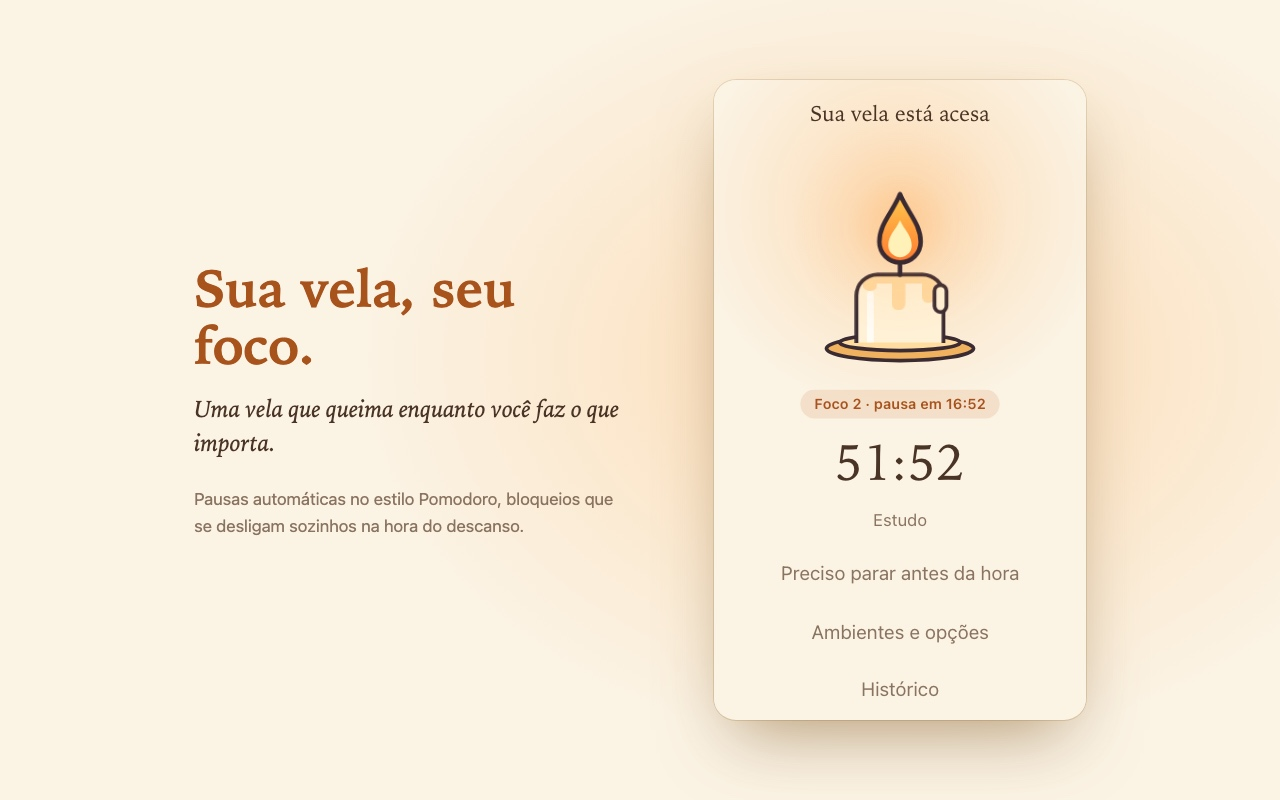
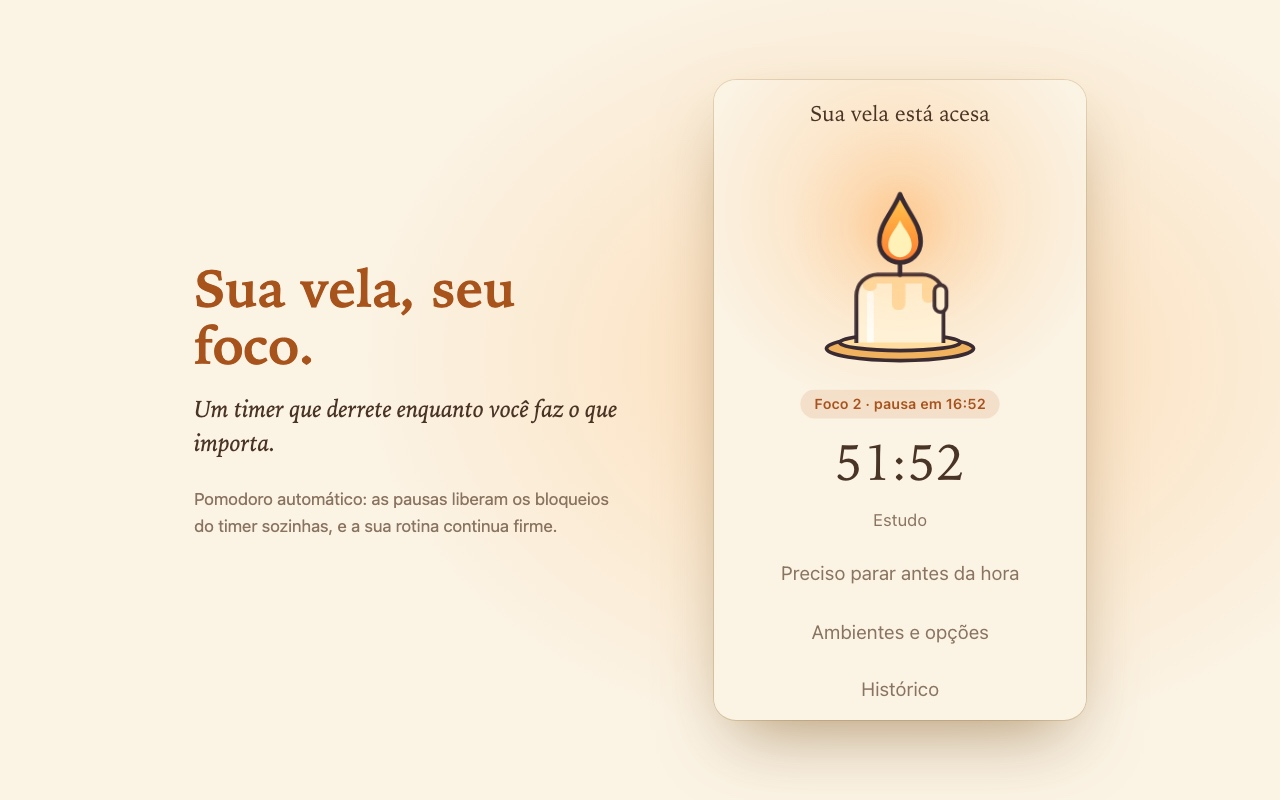
Loja: material atualizado para a Rotina (listagem, privacidade, capturas)

Changed region(s): [[0.1562, 0.5938, 0.4688, 0.6875], [0.1875, 0.5, 0.5, 0.5312]]

diff --git a/store/privacy-policy.html b/store/privacy-policy.html
@@ -31,9 +31,9 @@
 <h2>O que o Pavio guarda (somente no seu dispositivo)</h2>
 <p>Esses dados ficam em <code>chrome.storage.local</code>, que <strong>não é sincronizado</strong> com a sua conta Google:</p>
 <ul>
-<li><strong>Ambientes e regras</strong> que você cria (sites e o que fazer com cada um).</li>
-<li><strong>Horários</strong> (faixas por dia e hora) e configurações (tema, estilo da vela).</li>
-<li><strong>Sessão em andamento:</strong> quando começou, quando termina, o ambiente e o estado do Pomodoro.</li>
+<li><strong>Sua rotina:</strong> os sites e, para cada um, os dias, os horários e o que fazer (bloquear ou esconder partes).</li>
+<li><strong>Ambientes</strong> do timer (regras por site) e configurações (tema, estilo da vela, se a rotina está ligada).</li>
+<li><strong>Timer em andamento:</strong> quando começou, quando termina, o ambiente e o estado do Pomodoro.</li>
 <li><strong>Histórico de sessões:</strong> data, duração, ambiente, se foi concluída e quantas vezes você tentou abrir um site bloqueado.</li>
 <li><strong>Modo intenção:</strong> o texto que você digita ("o que você vai fazer aqui") e o tempo escolhido, apenas durante a sessão.</li>
 </ul>
@@ -46,17 +46,17 @@
 </ul>
 <h2>Como o Pavio atua nas páginas</h2>
 <ul>
-<li><strong>Bloqueio de sites:</strong> quando você inicia uma sessão, o Pavio usa a API <code>declarativeNetRequest</code> do Chrome para redirecionar os sites que você escolheu bloquear para uma página do próprio Pavio. Isso não exige ler o conteúdo das páginas.</li>
-<li><strong>Abas já abertas:</strong> ao iniciar uma sessão, o Pavio consulta o endereço das abas abertas nos sites que você bloqueou, só para levá-las à página da vela.</li>
-<li><strong>YouTube, Instagram, LinkedIn e X:</strong> durante uma sessão cujo ambiente trate o serviço como "restrito", um script local esconde as partes que você marcou (por exemplo, feed, Shorts, Reels, comentários) e redireciona páginas específicas com base no <strong>endereço (URL)</strong>. No YouTube, se você usa uma lista de vídeos/canais permitidos, o script compara o link do canal do vídeo aberto com a sua lista. No X, o script lê os rótulos das abas ("Para você", "Seguindo") para identificar qual esconder. Tudo acontece no seu navegador; nada é lido para outro fim nem transmitido.</li>
+<li><strong>Bloqueio de sites:</strong> nos dias e horários da sua rotina, ou enquanto uma vela (timer) está acesa, o Pavio usa a API <code>declarativeNetRequest</code> do Chrome para redirecionar os sites que você escolheu bloquear para uma página do próprio Pavio. Isso não exige ler o conteúdo das páginas.</li>
+<li><strong>Abas já abertas:</strong> quando um bloqueio começa a valer, o Pavio consulta o endereço das abas abertas nos sites que você bloqueou, só para levá-las à página da vela.</li>
+<li><strong>YouTube, Instagram, LinkedIn e X:</strong> nos horários em que sua rotina (ou o timer) trata o serviço como "restrito", um script local esconde as partes que você marcou (por exemplo, feed, Shorts, Reels, comentários) e redireciona páginas específicas com base no <strong>endereço (URL)</strong>. No YouTube, se você usa uma lista de vídeos/canais permitidos, o script compara o link do canal do vídeo aberto com a sua lista. No X, o script lê os rótulos das abas ("Para você", "Seguindo") para identificar qual esconder. Tudo acontece no seu navegador; nada é lido para outro fim nem transmitido.</li>
 </ul>
 <h2>Permissões e por que são necessárias</h2>
 <table><thead><tr><th>Permissão</th><th>Para que serve</th></tr></thead><tbody>
 <tr><td>Armazenamento (<code>storage</code>)</td><td>Guardar localmente seus ambientes, horários, sessão e histórico.</td></tr>
-<tr><td>Alarmes (<code>alarms</code>)</td><td>Disparar o fim da vela, o início de uma faixa de horário, as trocas do Pomodoro e o aviso do modo intenção no momento certo.</td></tr>
-<tr><td>Notificações (<code>notifications</code>)</td><td>Avisar "a vela acabou", "seu horário começou", "hora da pausa" e "ainda está na tarefa?".</td></tr>
-<tr><td>Bloqueio de rede declarativo (<code>declarativeNetRequest</code>)</td><td>Redirecionar os sites bloqueados para a página da vela durante a sessão.</td></tr>
-<tr><td>Acesso opcional a sites</td><td>Necessário para o redirecionamento. É <strong>opcional</strong>: só é pedido, site a site, quando você adiciona o site a um ambiente.</td></tr>
+<tr><td>Alarmes (<code>alarms</code>)</td><td>Disparar o fim da vela, o início e o fim das faixas da rotina, as trocas do Pomodoro e o aviso do modo intenção no momento certo.</td></tr>
+<tr><td>Notificações (<code>notifications</code>)</td><td>Avisar "a vela acabou", "hora da pausa" e "ainda está na tarefa?".</td></tr>
+<tr><td>Bloqueio de rede declarativo (<code>declarativeNetRequest</code>)</td><td>Redirecionar os sites bloqueados para a página da vela nos horários da sua rotina ou durante o timer.</td></tr>
+<tr><td>Acesso opcional a sites</td><td>Necessário para o redirecionamento. É <strong>opcional</strong>: só é pedido, site a site, quando você liga a rotina ou adiciona o site a uma faixa ou ambiente.</td></tr>
 <tr><td>Acesso a youtube.com, instagram.com, linkedin.com, x.com e twitter.com</td><td>Para esconder as partes que você escolheu desses serviços durante a sessão.</td></tr>
 </tbody></table>
 <h2>Seus direitos e controles</h2>

diff --git a/manifest.ts b/manifest.ts
@@ -6,7 +6,7 @@ export default defineManifest({
   manifest_version: 3,
   name: 'Pavio',
   version: '0.1.0',
-  description: 'Foco com calma: ambientes, horários, Pomodoro e uma vela que queima enquanto você faz o que importa. Tudo local, sem contas.',
+  description: 'Foco com calma: bloqueie sites por dia e horário, com rotina pronta, timer em forma de vela e Pomodoro. Tudo local, sem contas.',
   minimum_chrome_version: '120',
   permissions: ['storage', 'alarms', 'notifications', 'declarativeNetRequest'],
   // Pedida por site, no clique do usuário (ao salvar um ambiente com sites bloqueados/restritos).

diff --git a/store/privacy-practices.md b/store/privacy-practices.md
@@ -11,22 +11,22 @@ Ajudar o usuário a manter o foco: ele monta ambientes e horários com regras po
 
 ### `storage`
 ```
-Guarda, no próprio navegador, os ambientes e regras do usuário, a sessão em andamento, os horários, as configurações e o histórico local de sessões. Nenhum desses dados sai do dispositivo.
+Guarda, no próprio navegador, a rotina e os ambientes do usuário (regras por site e horário), a sessão em andamento, as configurações e o histórico local de sessões. Nenhum desses dados sai do dispositivo.
 ```
 
 ### `alarms`
 ```
-Precisa disparar eventos no horário certo mesmo com o service worker suspenso: o fim da vela (sessão), o início de uma faixa de horário, a troca de fase do Pomodoro (foco/pausa) e o fim do tempo declarado no modo intenção.
+Precisa disparar eventos no horário certo mesmo com o service worker suspenso: o fim da vela (sessão), o início e o fim das faixas da rotina (para ligar e desligar os bloqueios na hora marcada), a troca de fase do Pomodoro (foco/pausa) e o fim do tempo declarado no modo intenção.
 ```
 
 ### `notifications`
 ```
-Mostra avisos locais ao usuário: "a vela acabou", "seu horário começou", "hora da pausa / de volta ao foco" e "ainda está na tarefa?". Não exibe anúncios nem conteúdo promocional.
+Mostra avisos locais ao usuário: "a vela acabou", "hora da pausa / de volta ao foco" e "ainda está na tarefa?". Não exibe anúncios nem conteúdo promocional.
 ```
 
 ### `declarativeNetRequest`
 ```
-Redireciona a navegação principal (main_frame) dos sites que o usuário escolheu bloquear para uma página do próprio Pavio (a vela). As regras são dinâmicas, existem somente durante uma sessão de foco e são removidas ao fim dela ou na pausa do Pomodoro. A API declarativa é usada justamente para que o Pavio não precise ler o conteúdo das páginas.
+Redireciona a navegação principal (main_frame) dos sites que o usuário escolheu bloquear para uma página do próprio Pavio (a vela). As regras são dinâmicas e valem apenas nos dias e horários que o próprio usuário definiu na sua rotina, ou enquanto uma vela (timer) está acesa; são removidas ao fim da faixa, do timer ou na pausa do Pomodoro. A API declarativa é usada justamente para que o Pavio não precise ler o conteúdo das páginas.
 ```
 
 ### Permissão de host opcional (`optional_host_permissions: <all_urls>`)
@@ -36,7 +36,7 @@ O redirecionamento do declarativeNetRequest exige acesso ao site de destino, e o
 
 ### Scripts de conteúdo — acesso a `youtube.com`, `instagram.com`, `linkedin.com`, `x.com` e `twitter.com`
 ```
-Executam apenas no navegador do usuário e só agem durante uma sessão de foco cujo ambiente trate esse serviço como "restrito". Escondem, por CSS, as partes que o usuário marcou (ex.: feed, Shorts, Reels, recomendados, comentários, aba "Para você") e redirecionam páginas específicas (ex.: /shorts, /reels, /explore) para a vela, decidindo apenas pelo caminho (URL). No YouTube, com uma lista de links permitidos, o script compara o link do canal do vídeo aberto com os canais permitidos; no X, lê apenas os rótulos das abas para esconder "Para você". Eles não leem mensagens, publicações, perfis nem dados pessoais, e não enviam nada para fora. Precisam rodar no início da página (document_start) para o conteúdo escondido não aparecer por um instante.
+Executam apenas no navegador do usuário e só agem nos horários em que a rotina do usuário (ou o timer) trata esse serviço como "restrito". Escondem, por CSS, as partes que o usuário marcou (ex.: feed, Shorts, Reels, recomendados, comentários, aba "Para você") e redirecionam páginas específicas (ex.: /shorts, /reels, /explore) para a vela, decidindo apenas pelo caminho (URL). No YouTube, com uma lista de links permitidos, o script compara o link do canal do vídeo aberto com os canais permitidos; no X, lê apenas os rótulos das abas para esconder "Para você". Eles não leem mensagens, publicações, perfis nem dados pessoais, e não enviam nada para fora. Precisam rodar no início da página (document_start) para o conteúdo escondido não aparecer por um instante.
 ```
 
 ### Recursos acessíveis pela web (`web_accessible_resources`)
@@ -67,11 +67,10 @@ Hospede `store/privacy-policy.html` em um endereço público (veja `store/README
 ```
 Não é necessária conta nem login para testar o fluxo principal.
 
-1. Instale a extensão e clique no ícone do Pavio.
-2. Em "Ambiente" deixe "Estudo", escolha "Outro" e digite 2 (minutos), e clique em "Acender vela". O Chrome pede acesso aos sites bloqueados do ambiente: permita.
-3. Abra reddit.com em uma nova aba: a navegação é redirecionada para a página da vela (bloqueio).
-4. No popup, "Preciso parar antes da hora" abre a tela de atrito (espera de 10 s + frase "eu quero desistir do meu foco agora").
-5. Opções (clique direito no ícone > Opções): abas Ambientes, Horários, Histórico e Aparência.
-6. Modo restrito (sem login): com o ambiente "Noite" ativo, abrir instagram.com/reels/, instagram.com/explore/ ou linkedin.com/video/ redireciona para a vela (a decisão é só pela URL). No YouTube (ambiente "Estudo"), youtube.com/shorts/... redireciona e a home mostra um aviso no lugar do feed.
-7. Pomodoro: em "Pomodoro automático" use foco 1 min e pausa 1 min: na pausa os bloqueios se desligam.
+1. Instale a extensão: as Opções abrem sozinhas na aba "Rotina", com uma programação pronta DESLIGADA.
+2. Em "Adicionar site à rotina" digite reddit.com e clique em "Adicionar"; no editor deixe "Bloqueado", marque "Dia todo" e todos os dias (atalho "Sempre") e clique em "Salvar faixa". Depois clique em "Ligar a rotina" e permita o acesso quando o Chrome pedir.
+3. Abra reddit.com em uma nova aba: a navegação é redirecionada para a página da vela (bloqueio). Desligue o interruptor da rotina e o site volta a abrir.
+4. Timer: clique no ícone do Pavio, escolha "Outro" e 2 (minutos), ambiente "Estudo", e "Acender vela" (o Chrome pede acesso aos sites do ambiente). "Preciso parar antes da hora" abre a tela de atrito (espera de 10 s + frase "eu quero desistir do meu foco agora").
+5. Modo restrito (sem login): com a rotina ligada e o Instagram/LinkedIn/YouTube restritos pela rotina pronta nos horários dela (ou criando uma faixa "Sempre" restrita), abrir instagram.com/reels/, instagram.com/explore/ ou linkedin.com/video/ redireciona para a vela (a decisão é só pela URL). No YouTube, youtube.com/shorts/... redireciona e a home mostra um aviso no lugar do feed.
+6. Pomodoro: no timer, ligue "Pomodoro automático" com foco 1 min e pausa 1 min: na pausa os bloqueios do timer se desligam.
 ```

diff --git a/store/privacy-policy.md b/store/privacy-policy.md
@@ -11,9 +11,9 @@ O Pavio é uma extensão do Chrome que ajuda você a manter o foco. Esta políti
 
 ## O que o Pavio guarda (somente no seu dispositivo)
 Esses dados ficam em `chrome.storage.local`, que **não é sincronizado** com a sua conta Google:
-- **Ambientes e regras** que você cria (sites e o que fazer com cada um).
-- **Horários** (faixas por dia e hora) e configurações (tema, estilo da vela).
-- **Sessão em andamento:** quando começou, quando termina, o ambiente e o estado do Pomodoro.
+- **Sua rotina:** os sites e, para cada um, os dias, os horários e o que fazer (bloquear ou esconder partes).
+- **Ambientes** do timer (regras por site) e configurações (tema, estilo da vela, se a rotina está ligada).
+- **Timer em andamento:** quando começou, quando termina, o ambiente e o estado do Pomodoro.
 - **Histórico de sessões:** data, duração, ambiente, se foi concluída e quantas vezes você tentou abrir um site bloqueado.
 - **Modo intenção:** o texto que você digita ("o que você vai fazer aqui") e o tempo escolhido, apenas durante a sessão.
 
@@ -24,18 +24,18 @@ Esses dados ficam em `chrome.storage.local`, que **não é sincronizado** com a 
 - Não lê nem guarda o conteúdo das páginas que você visita (mensagens, publicações, perfis, e-mails, formulários, senhas).
 
 ## Como o Pavio atua nas páginas
-- **Bloqueio de sites:** quando você inicia uma sessão, o Pavio usa a API `declarativeNetRequest` do Chrome para redirecionar os sites que você escolheu bloquear para uma página do próprio Pavio. Isso não exige ler o conteúdo das páginas.
-- **Abas já abertas:** ao iniciar uma sessão, o Pavio consulta o endereço das abas abertas nos sites que você bloqueou, só para levá-las à página da vela.
-- **YouTube, Instagram, LinkedIn e X:** durante uma sessão cujo ambiente trate o serviço como "restrito", um script local esconde as partes que você marcou (por exemplo, feed, Shorts, Reels, comentários) e redireciona páginas específicas com base no **endereço (URL)**. No YouTube, se você usa uma lista de vídeos/canais permitidos, o script compara o link do canal do vídeo aberto com a sua lista. No X, o script lê os rótulos das abas ("Para você", "Seguindo") para identificar qual esconder. Tudo acontece no seu navegador; nada é lido para outro fim nem transmitido.
+- **Bloqueio de sites:** nos dias e horários da sua rotina, ou enquanto uma vela (timer) está acesa, o Pavio usa a API `declarativeNetRequest` do Chrome para redirecionar os sites que você escolheu bloquear para uma página do próprio Pavio. Isso não exige ler o conteúdo das páginas.
+- **Abas já abertas:** quando um bloqueio começa a valer, o Pavio consulta o endereço das abas abertas nos sites que você bloqueou, só para levá-las à página da vela.
+- **YouTube, Instagram, LinkedIn e X:** nos horários em que sua rotina (ou o timer) trata o serviço como "restrito", um script local esconde as partes que você marcou (por exemplo, feed, Shorts, Reels, comentários) e redireciona páginas específicas com base no **endereço (URL)**. No YouTube, se você usa uma lista de vídeos/canais permitidos, o script compara o link do canal do vídeo aberto com a sua lista. No X, o script lê os rótulos das abas ("Para você", "Seguindo") para identificar qual esconder. Tudo acontece no seu navegador; nada é lido para outro fim nem transmitido.
 
 ## Permissões e por que são necessárias
 | Permissão | Para que serve |
 |---|---|
 | Armazenamento (`storage`) | Guardar localmente seus ambientes, horários, sessão e histórico. |
-| Alarmes (`alarms`) | Disparar o fim da vela, o início de uma faixa de horário, as trocas do Pomodoro e o aviso do modo intenção no momento certo. |
-| Notificações (`notifications`) | Avisar "a vela acabou", "seu horário começou", "hora da pausa" e "ainda está na tarefa?". |
-| Bloqueio de rede declarativo (`declarativeNetRequest`) | Redirecionar os sites bloqueados para a página da vela durante a sessão. |
-| Acesso opcional a sites | Necessário para o redirecionamento. É **opcional**: só é pedido, site a site, quando você adiciona o site a um ambiente. |
+| Alarmes (`alarms`) | Disparar o fim da vela, o início e o fim das faixas da rotina, as trocas do Pomodoro e o aviso do modo intenção no momento certo. |
+| Notificações (`notifications`) | Avisar "a vela acabou", "hora da pausa" e "ainda está na tarefa?". |
+| Bloqueio de rede declarativo (`declarativeNetRequest`) | Redirecionar os sites bloqueados para a página da vela nos horários da sua rotina ou durante o timer. |
+| Acesso opcional a sites | Necessário para o redirecionamento. É **opcional**: só é pedido, site a site, quando você liga a rotina ou adiciona o site a uma faixa ou ambiente. |
 | Acesso a youtube.com, instagram.com, linkedin.com, x.com e twitter.com | Para esconder as partes que você escolheu desses serviços durante a sessão. |
 
 ## Seus direitos e controles

diff --git a/store/listing.pt-BR.md b/store/listing.pt-BR.md
@@ -10,9 +10,9 @@ Pavio
 
 ## Resumo (máx. 132 caracteres — vem do `description` do manifest)
 ```
-Foco com calma: ambientes, horários, Pomodoro e uma vela que queima enquanto você faz o que importa. Tudo local, sem contas.
+Foco com calma: bloqueie sites por dia e horário, com rotina pronta, timer em forma de vela e Pomodoro. Tudo local, sem contas.
 ```
-*(124 caracteres)*
+*(127 caracteres)*
 
 ## Categoria
 **Produtividade**
@@ -24,21 +24,21 @@ Português (Brasil)
 ```
 Você não controla você, mas pode controlar seu ambiente.
 
-O Pavio é uma extensão de foco para quem se distrai com facilidade. Em vez de só "bloquear sites", você monta ambientes: cada um decide, site por site, o que fica liberado, bloqueado ou restrito. Quando a sessão começa, uma vela acende e vai derretendo conforme o tempo passa. Quando ela acaba, você recebe um aviso.
+O Pavio é uma extensão de foco para quem se distrai com facilidade. Em vez de depender de força de vontade, você monta uma rotina: para cada site, escolhe em quais dias e horas ele fica bloqueado ou com as partes de distração escondidas. E quando precisar de um foco a mais, acende uma vela: um timer que derrete enquanto você trabalha.
 
 COMO FUNCIONA
 
-• Ambientes. Crie perfis como "Estudo", "Trabalho profundo" ou "Noite". Cada site tem uma regra: liberado, bloqueado ou restrito. Já vêm três ambientes de exemplo.
+• Rotina por site e horário. Veja suas 24 horas numa linha do tempo por site (YouTube, Instagram, TikTok, X, LinkedIn…) e desenhe quando cada um fica restrito: só no expediente, só à noite, no fim de semana, ou para sempre. A rotina trabalha sozinha, sem você precisar fazer nada.
 
-• A vela. Inicie uma sessão de 25, 50, 90 minutos ou o tempo que quiser. A vela é o seu timer: a altura dela mostra quanto falta, e a cera derrete de verdade, com chama animada. Há duas versões visuais (clássica e minimalista).
+• Programação pronta. Já vem uma rotina de exemplo (dias úteis das 9h às 18h e uma noite sem telas das 22h às 6h). Ela começa desligada: você confere, ajusta o que quiser e liga quando estiver bom para você.
 
-• Horários. Monte sua semana: escolha os dias, as horas e o ambiente de cada faixa, e crie quantas faixas quiser (por exemplo, "Manhã de estudo" nos dias úteis e "Noite sem telas" todo dia). Na hora marcada, o Pavio acende a vela sozinho. Uma grade semanal mostra tudo de relance.
+• Timer em forma de vela. Para um foco a mais, inicie uma sessão de 25, 50, 90 minutos ou o tempo que quiser. A vela derrete de verdade, com chama animada, e as regras do ambiente que você escolher (por exemplo, "Estudo") valem por cima da sua rotina. Quando ela acaba, você recebe um aviso.
 
-• Pomodoro automático. Ative pausas no ritmo que preferir (por exemplo, 25 minutos de foco e 5 de pausa, com pausa longa opcional). Na pausa, os bloqueios se desligam sozinhos e voltam quando o foco recomeça.
+• Pomodoro automático. No timer, ative pausas no ritmo que preferir (por exemplo, 25 minutos de foco e 5 de pausa, com pausa longa opcional). Na pausa, os bloqueios do timer se desligam sozinhos e voltam quando o foco recomeça; as regras da rotina continuam firmes.
 
 • Modo intenção. Em sites restritos, o Pavio pergunta "o que você vai fazer aqui?" e por quanto tempo. Passou do tempo, você recebe um aviso gentil: "ainda está na tarefa?".
 
-• Atrito para desistir. Parar antes da hora de propósito dá um pouco de trabalho: uma mensagem, uma espera de 10 segundos e uma frase para digitar. Se preferir, use o modo leve, só com confirmação.
+• Atrito para desistir. Parar a vela antes da hora de propósito dá um pouco de trabalho: uma mensagem, uma espera de 10 segundos e uma frase para digitar (ou, se preferir, o modo leve, só com confirmação). Mexer na rotina enquanto ela está protegendo você também pede confirmação.
 
 ESCONDER PARTES, NÃO O SITE INTEIRO
 
@@ -69,8 +69,8 @@ OBSERVAÇÕES
 
 ## Legendas sugeridas para as capturas de tela
 1. `01-popup.jpg` — **Sua vela, seu foco.** Timer em forma de vela, com Pomodoro automático.
-2. `02-ambientes.jpg` — **Escolha o que esconder em cada serviço.** Ambientes com regras por site.
-3. `03-horarios.jpg` — **Monte a sua semana.** Faixas de horário que acendem a vela sozinhas.
+2. `02-rotina.jpg` — **Sua rotina, hora a hora.** Uma linha do tempo por site, com o que fica restrito em cada horário.
+3. `03-rotina-editar.jpg` — **Escolha exatamente o que esconder.** Dias, horário e as partes de cada serviço.
 4. `04-historico.jpg` — **Horas devolvidas.** Seu histórico, só no seu navegador.
 5. `05-vela-bloqueio.jpg` — **Em vez de uma página bloqueada, uma vela.** Um convite gentil para voltar.
 

diff --git a/store/listing.en.md b/store/listing.en.md
@@ -2,7 +2,7 @@
 
 ## Short description (max 132 chars)
 ```
-Calm focus: environments, schedules, Pomodoro and a candle that burns while you do what matters. All local, no accounts.
+Calm focus: block sites by day and time, with a ready-made routine, a candle timer and Pomodoro. All local, no accounts.
 ```
 *(120 characters)* — note: the manifest description is in Portuguese; to ship this one, add `_locales/` (see store/README.md, "Optional: English").
 
@@ -12,12 +12,12 @@ You can't control yourself, but you can control your environment.
 
 Pavio is a focus extension for people who get distracted easily. Instead of only blocking sites, you build environments: each one decides, site by site, what is allowed, blocked or restricted. When a session starts, a candle lights up and melts down as time passes. When it burns out, you get a notification.
 
-• Environments — profiles like "Study", "Deep work" or "Night", with one rule per site.
-• The candle — a 25/50/90-minute (or custom) timer that visibly melts, with an animated flame.
-• Schedules — choose days, hours and an environment for each time slot; Pavio lights the candle by itself. Create as many slots as you like, with a weekly grid view.
-• Automatic Pomodoro — focus/break cycles; blocks switch off automatically during breaks.
+• Routine by site and time — see your 24 hours as a timeline per site and draw when each one is blocked or has parts hidden: work hours, nights, weekends, or always. It works by itself.
+• Ready-made schedule — comes pre-filled (weekdays 9–18 and a screen-free night) but switched OFF until you review and turn it on.
+• Candle timer — for extra focus, start a 25/50/90-minute (or custom) session; the candle visibly melts and the rules of the environment you pick apply on top of your routine.
+• Automatic Pomodoro — focus/break cycles for the timer; the timer's blocks switch off during breaks.
 • Intent mode — on restricted sites, Pavio asks "what are you here to do?" and for how long, then nudges you gently when time is up.
-• Friction to quit early — a message, a 10-second wait and a phrase to type (or a light confirmation mode).
+• Friction to quit early — a message, a 10-second wait and a phrase to type (or a light confirmation mode). Loosening a rule that is protecting you right now asks for confirmation too.
 
 HIDE PARTS, NOT THE WHOLE SITE
 YouTube (feed, Shorts, recommendations, comments; optional allow-list of videos/playlists/channels), Instagram (feed, Reels, Explore, Stories), X ("For you" tab, Explore), LinkedIn (feed, videos, news).

diff --git a/store/README.md b/store/README.md
@@ -10,7 +10,7 @@ Tudo o que é preciso para enviar a extensão está nesta pasta e no `.zip` gera
 | `listing.en.md` | Versão em inglês (opcional; veja a seção "Inglês") |
 | `privacy-practices.md` | Respostas da aba **Práticas de privacidade**: justificativa de cada permissão, código remoto, uso de dados, instruções para o revisor |
 | `privacy-policy.md` / `privacy-policy.html` | Política de privacidade (o `.html` é a página para hospedar) |
-| `assets/screenshots/*.jpg` | 5 capturas 1280×800 |
+| `assets/screenshots/*.jpg` | 5 capturas 1280×800 (popup com Pomodoro, rotina, editor de faixa, histórico e a página da vela) |
 | `assets/promo-*.jpg` | Banner pequeno (440×280) e de destaque (1400×560) |
 
 ## Antes de enviar: o que só você pode fazer
